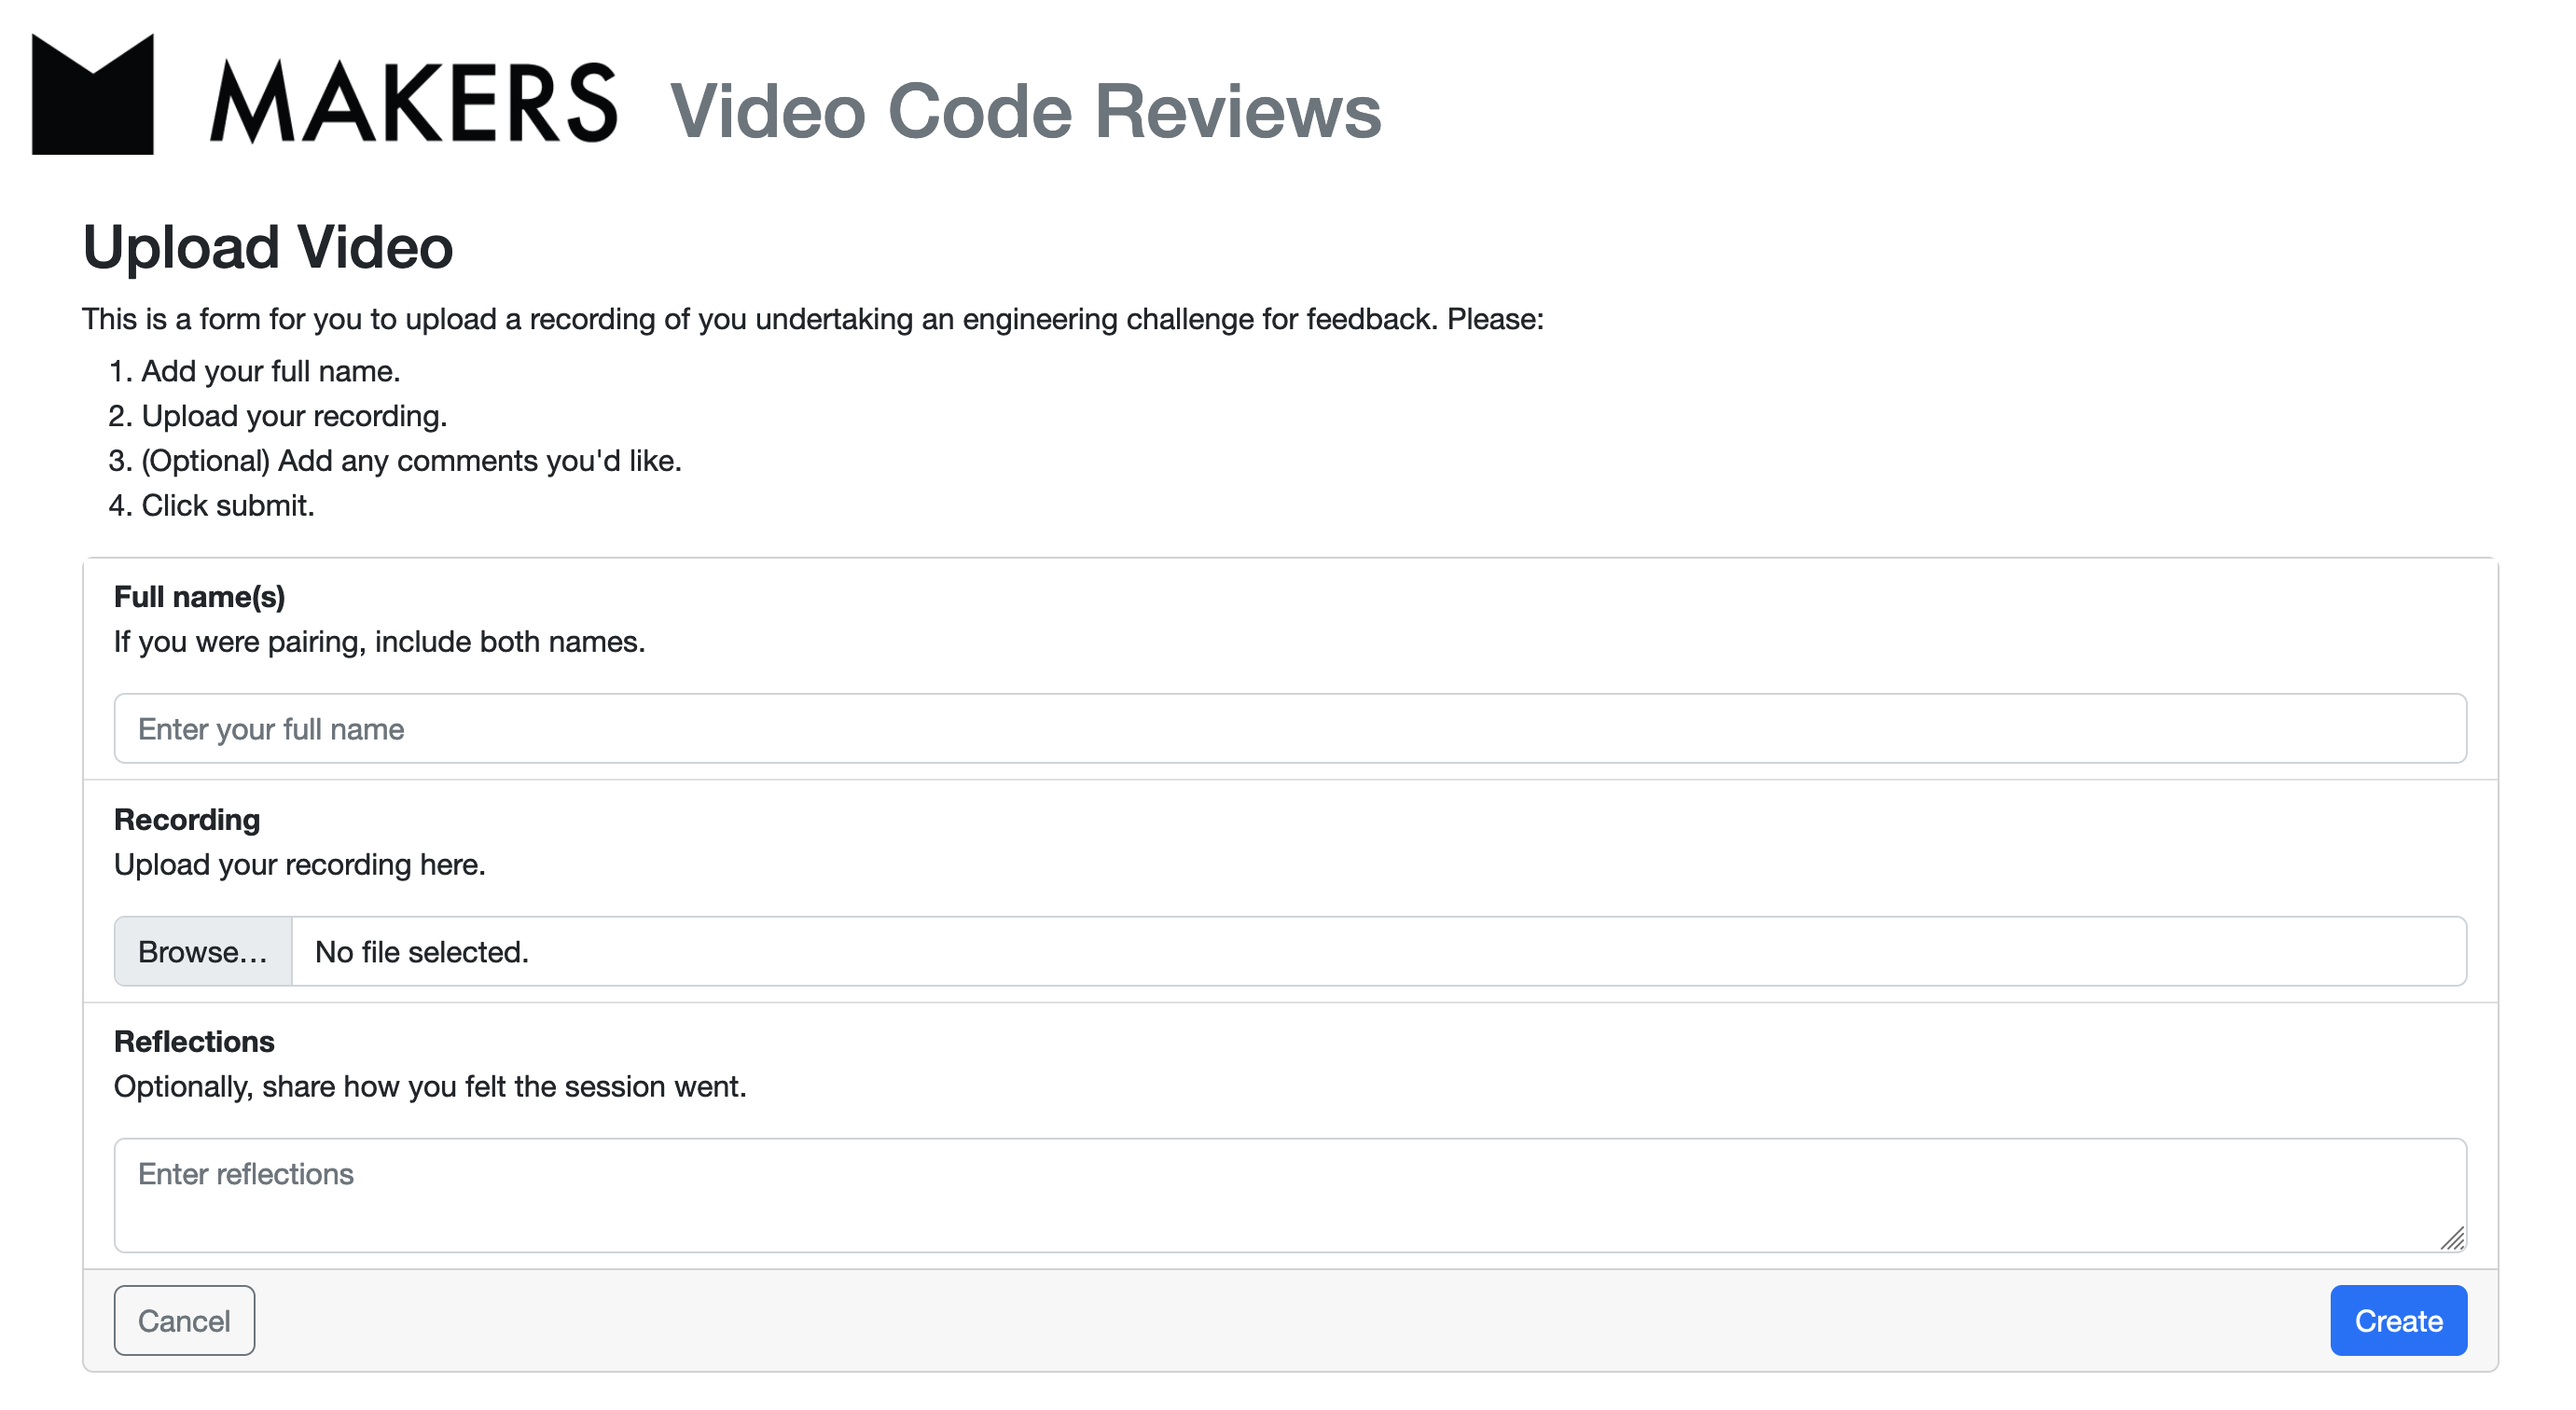
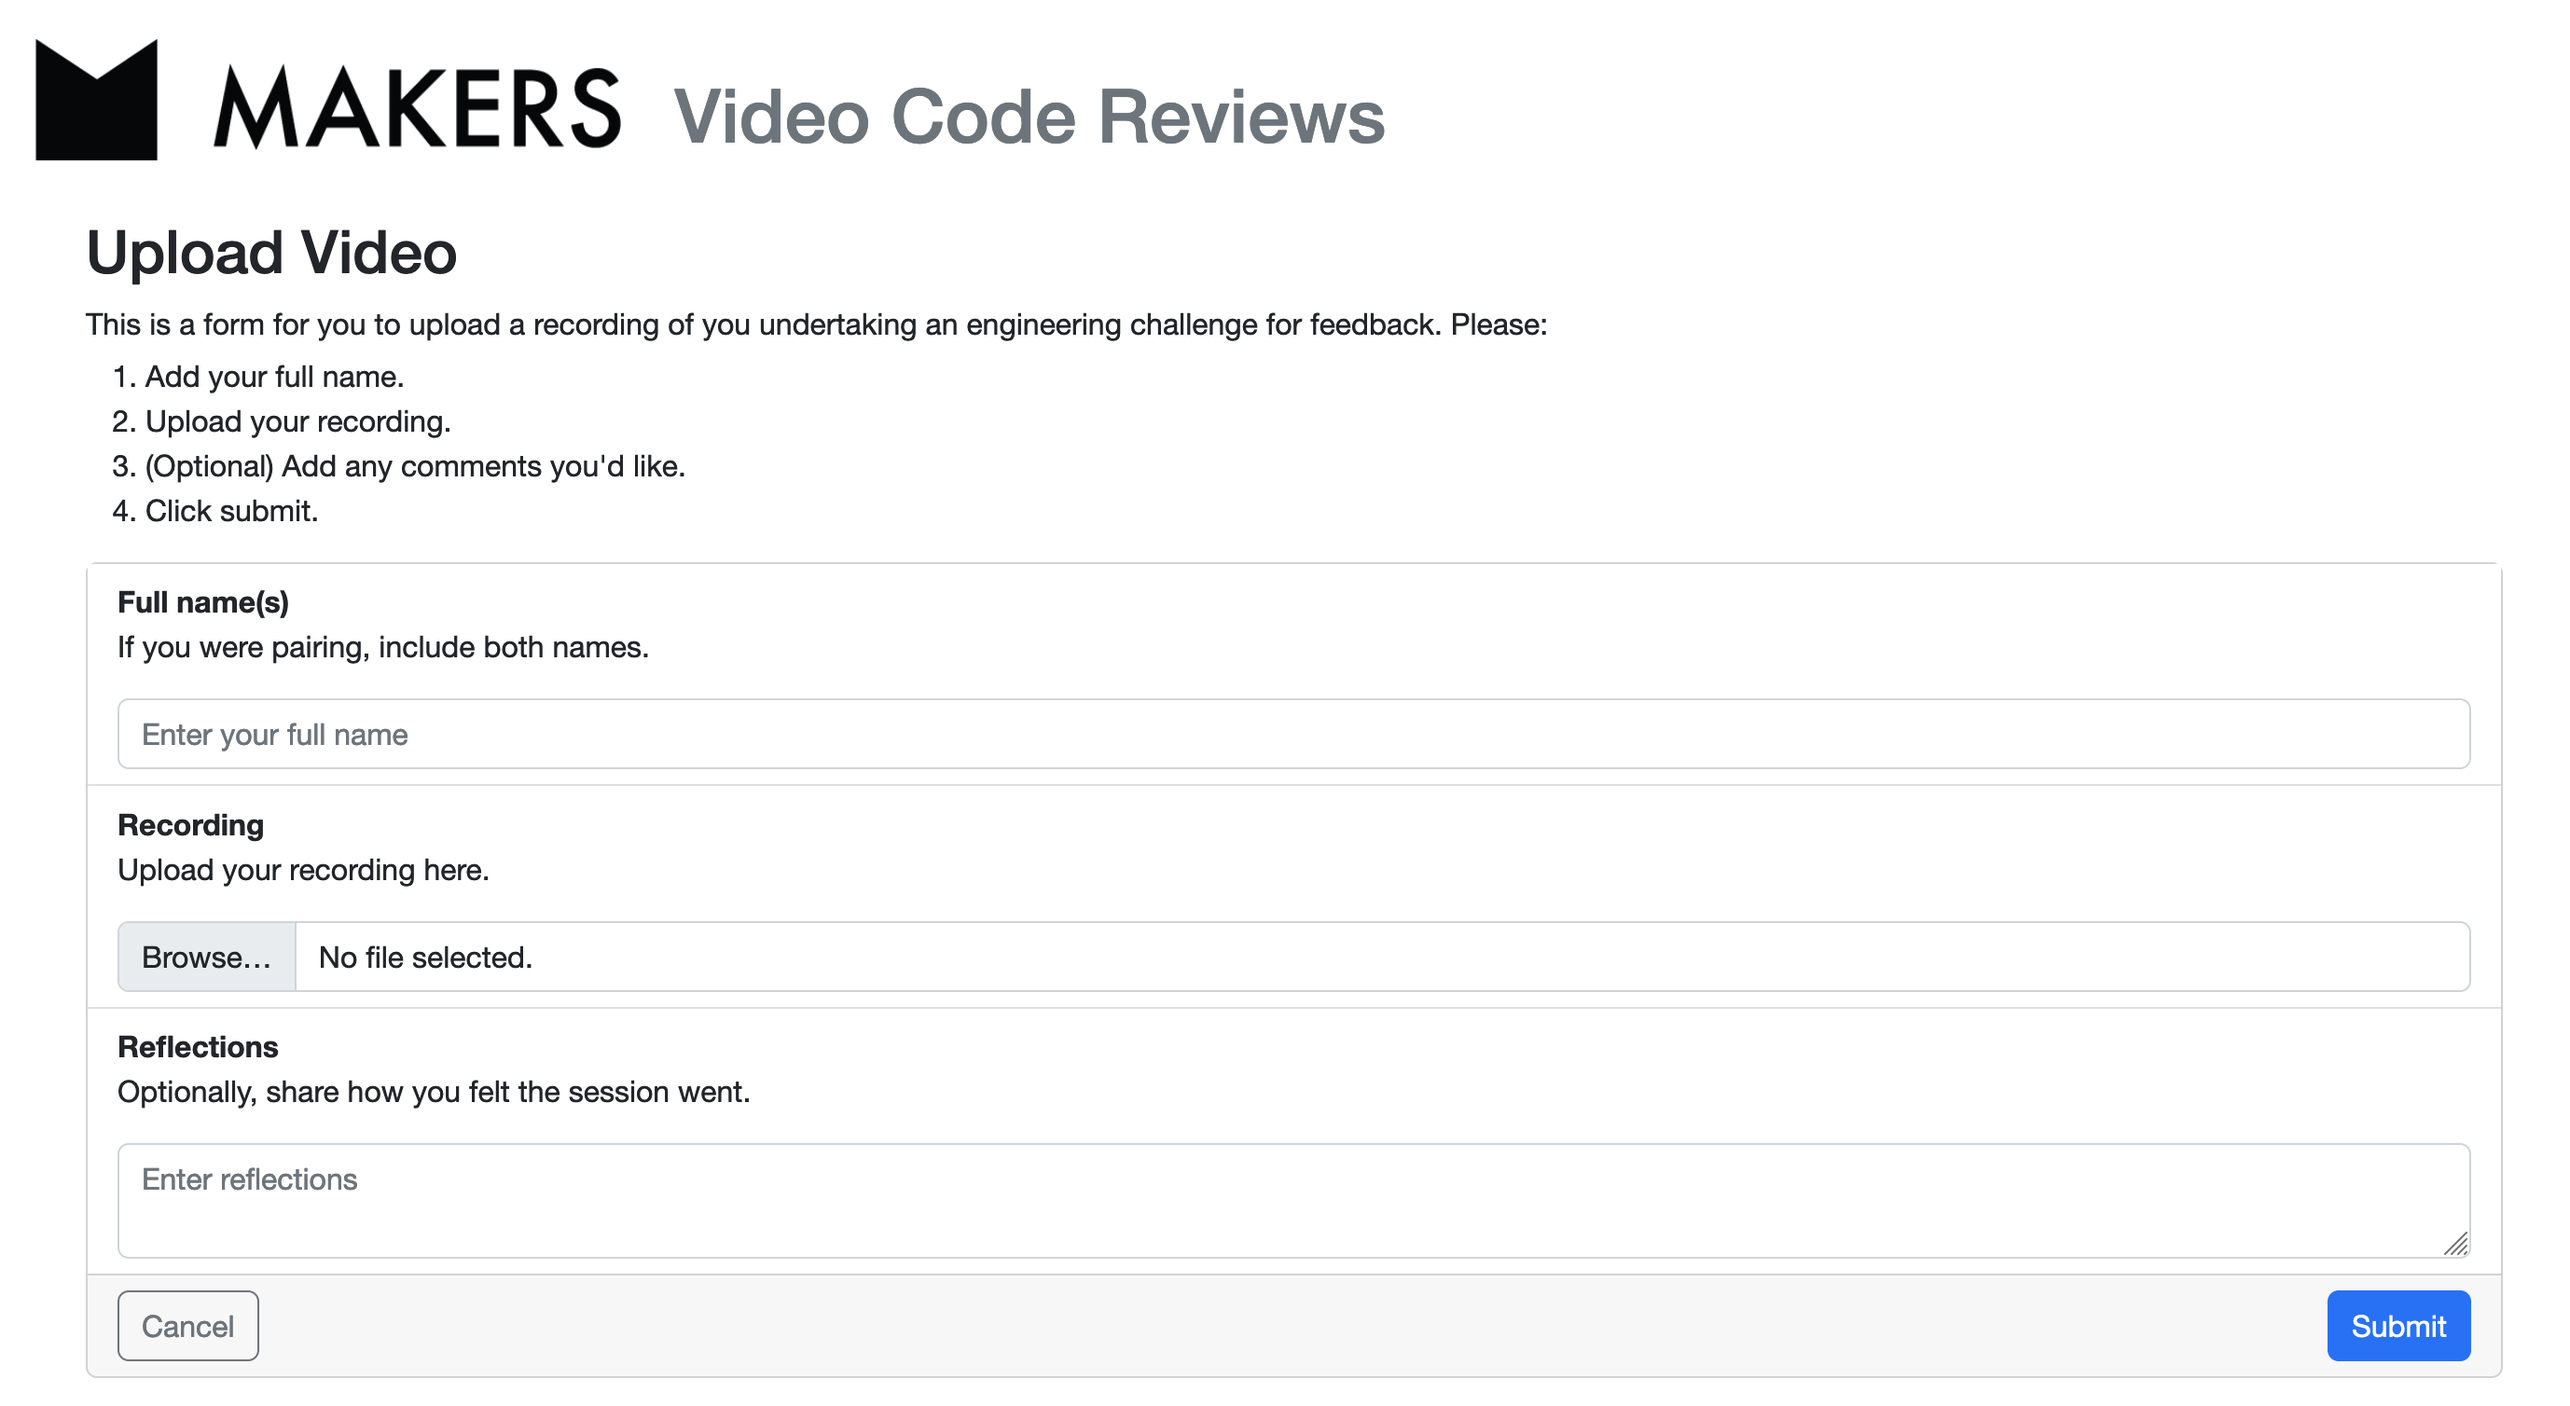
Changed Create to Submit on the submission form button

diff --git a/spec/features/user_creates_submission_spec.rb b/spec/features/user_creates_submission_spec.rb
@@ -11,7 +11,7 @@ RSpec.feature "Creating new Submission", type: :feature do
     fill_in "submission_full_name", with: "Partario"
     fill_in "submission_reflections", with: "It was good thanks"
     attach_file("submission_video", "test/fixtures/files/example.mp4")
-    click_button "Create"
+    click_button "Submit"
   end
 
   it "populates hidden item field from query params" do
